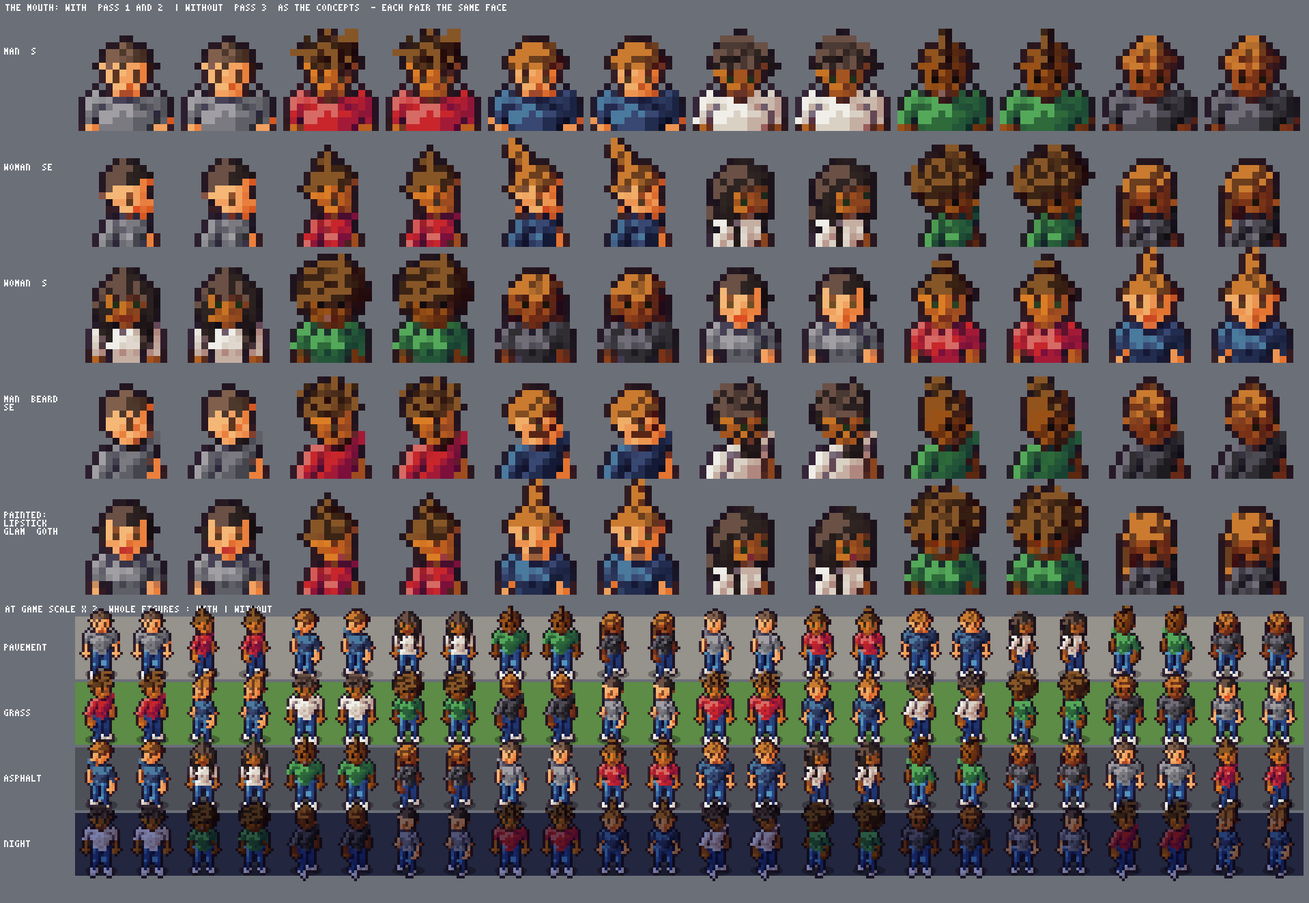
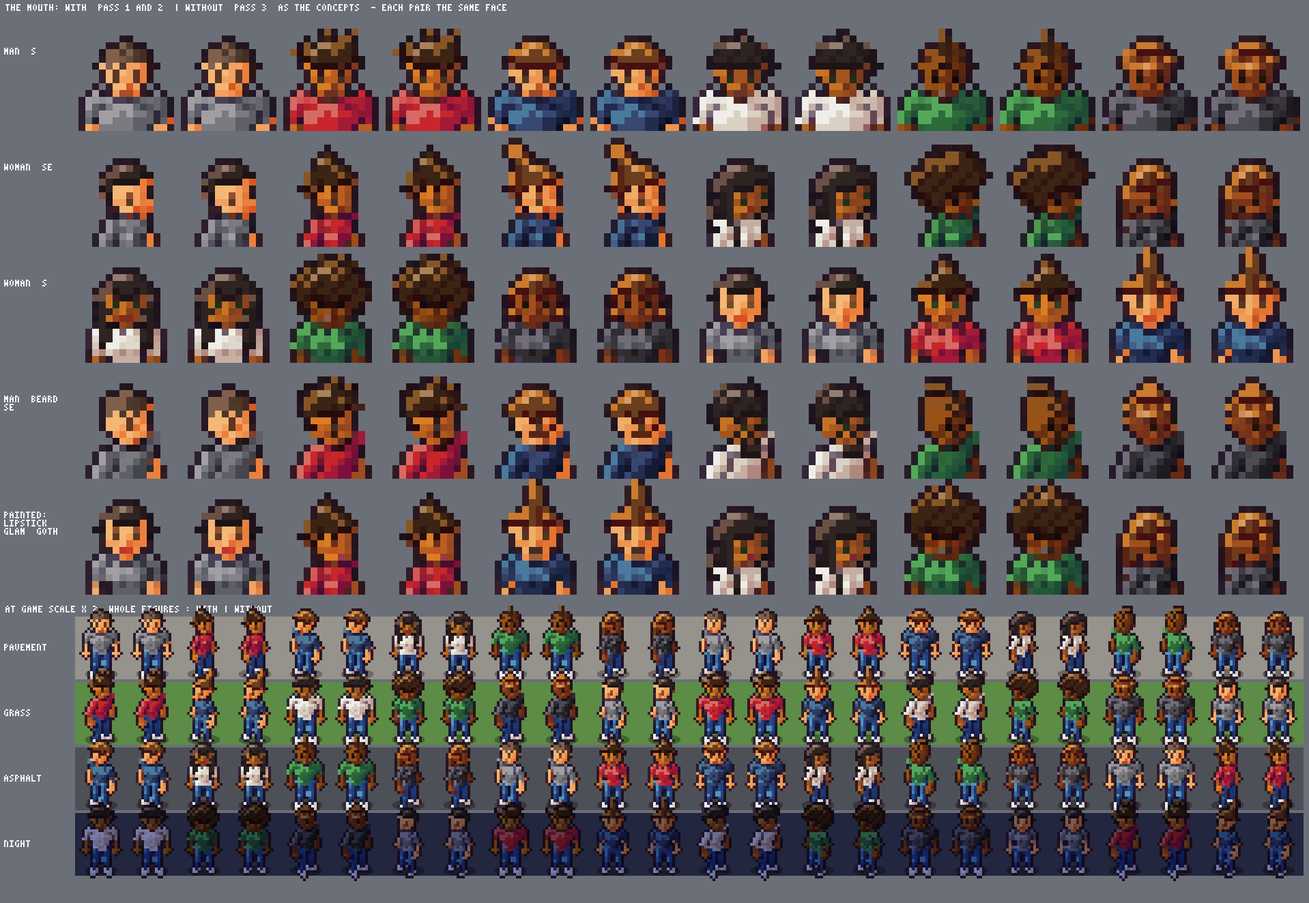
Characters pass 3: animation sheets 4, 6 and 7 studied with the pass on (nothing to fix; a parts check over every pose), the name tag rises with the taller head; pieces only the pass draws stay out of random looks and the props out of the creator while it is off; the creator's tile line fixed (a com

diff --git a/shared/lookcore.js b/shared/lookcore.js
@@ -389,9 +389,8 @@ add('set', 'Nothing', 'mf', 'lounge', 0, 'bathhouse', { k: 'none', bk: 'none', i
 // a random look; the creator shows it only to its owners): Season 0's Founding Citizen jacket (server/systems/cosmetics.js,
 // shared/rules.js COSMETICS.beta) - the varsity jacket's art in black and gold, no new sprite art
 add('jacket', 'Founding Citizen jacket', 'mf', 'preppy streetwear retro', 0, 'gift', { k: 'jacket', varsity: 1, gift: 1 }, 'black', 'gold');
-// underwear (the owner, 2026-11-19; docs/characters/NOTES.md): a slot, seen where there's no top or no bottoms. d.k the
-// top half's art kind (none: a woman's gets a plain bra), d.bk the bottom's. 'Nothing on': the mosaic, for everyone.
-// Never in random looks.
+// underwear (the owner, 2026-11-19): a slot, seen where there's no top or no bottoms. d.k the top half's art kind
+// (none: a woman's gets a plain bra), d.bk the bottom's. 'Nothing on': the mosaic. Never in random looks.
 add('under', 'Nothing on', 'mf', 'lounge', 0, 'clothing', { k: 'none', bk: 'none' }, 'white');
 add('under', 'Boxers', 'm', 'lounge casual', 10, 'clothing', { bk: 'trunks', band: 1 }, 'sky', 'white');
 add('under', 'Briefs', 'mf', 'lounge casual', 8, 'clothing', { bk: 'bikini', band: 1 }, 'white', 'light grey');
@@ -409,30 +408,28 @@ add('under', 'Strapless set', 'f', 'lounge nightclub', 50, 'boutique', { k: 'bik
 add('under', 'Lace bodysuit', 'f', 'lounge nightclub hifashion alt', 90, 'boutique', { k: 'swimsuit', bk: 'bikini', lace: 1 }, 'navy', 'silver');
 add('under', 'Teddy', 'f', 'lounge nightclub hifashion', 95, 'boutique', { k: 'swimsuit', bk: 'bikini', gloss: 1 }, 'wine', 'blush');
 add('under', 'Silk slip', 'f', 'lounge nightclub hifashion', 85, 'boutique', { k: 'dress', len: 1, bk: 'bikini', gloss: 1 }, 'cream', 'cream');
-// socks (pass 3): a slot. d.h where on the leg they start (0 hip .. 1 ankle); d.stripes, d.warm: the polish pass's
+// socks (pass 3): d.h where on the leg they start (0 hip .. 1 ankle); d.stripes, d.warm: the polish pass's
 add('socks', 'Ankle socks', 'mf', 'casual athletic', 5, 'clothing', { h: 0.9 }, 'white');
-add('socks', 'Crew socks', 'mf', 'casual athletic skater streetwear', 6, 'clothing', { h: 0.8 }, 'white');
+add('socks', 'Crew socks', 'mf', 'casual athletic skater', 6, 'clothing', { h: 0.8 }, 'white');
 add('socks', 'Striped crew socks', 'mf', 'skater streetwear retro', 8, 'clothing', { h: 0.8, stripes: 1 }, 'white', 'navy');
-add('socks', 'Tube socks', 'mf', 'skater retro athletic streetwear', 9, 'sports', { h: 0.7, stripes: 2 }, 'white', 'red');
+add('socks', 'Tube socks', 'mf', 'skater retro athletic', 9, 'sports', { h: 0.7, stripes: 2 }, 'white', 'red');
 add('socks', 'Knee socks', 'mf', 'preppy alt casual lounge', 12, 'clothing', { h: 0.56, stripes: 1 }, 'white', 'navy');
 add('socks', 'Thigh-high socks', 'f', 'alt nightclub lounge', 18, 'boutique', { h: 0.34, stripes: 1 }, 'black', 'white');
-add('socks', 'Tights', 'f', 'smart business alt winter', 15, 'clothing', { h: 0 }, 'black');
+add('socks', 'Tights', 'f', 'smart business winter', 15, 'clothing', { h: 0 }, 'black');
 add('socks', 'Leg warmers', 'mf', 'retro athletic lounge', 14, 'sports', { h: 0.54, warm: 1 }, 'hot pink', 'white');
-// drapes (pass 3): d.dr what the polish pass makes of the shape
+// drapes, props, small gear (pass 3): d.dr, d.prop the polish pass's; d.pp: only it draws the piece
 add('jacket', 'Hooded cloak', 'mf', 'alt disguise winter', 120, 'boutique', { k: 'coat', dr: 'cloak' }, 'black', 'gold');
 add('jacket', 'Cape coat', 'f', 'hifashion smart winter', 220, 'boutique', { k: 'coat', dr: 'cape' }, 'red');
 add('set', 'Sari', 'f', 'formal festival hifashion', 260, 'boutique', { k: 'gown', dr: 'sari' }, 'red', 'gold');
 add('set', 'Ghillie suit', 'mf', 'outdoors disguise', 150, 'costume', { k: 'hoodie', bk: 'cargo', p: 3, dr: 'ghillie' }, 'olive', 'khaki');
 add('set', 'Morning dress', 'm', 'formal', 450, 'boutique', { k: 'coat', bk: 'pants', dr: 'tails' }, 'charcoal', 'light grey');
-// props carried (pass 3): d.prop what the polish pass makes of the thing in the hand
-add('bag', 'Camera', 'mf', 'casual outdoors retro', 140, 'clothing', { carry: 'purse', prop: 'camera' }, 'charcoal', 'silver');
-add('bag', 'Bouquet', 'mf', 'formal festival', 25, 'clothing', { carry: 'coffee', prop: 'bouquet' }, 'pink', 'white');
-add('bag', 'Parasol', 'mf', 'alt retro hifashion', 60, 'boutique', { carry: 'cane', prop: 'parasol' }, 'black', 'burgundy');
-// small gear (pass 3). d.pp: only the polish pass draws it (the creator offers it while that is on)
+add('bag', 'Camera', 'mf', 'casual outdoors retro', 140, 'clothing', { carry: 'purse', prop: 'camera', pp: 1 }, 'charcoal', 'silver');
+add('bag', 'Bouquet', 'mf', 'formal festival', 25, 'clothing', { carry: 'coffee', prop: 'bouquet', pp: 1 }, 'pink', 'white');
+add('bag', 'Parasol', 'mf', 'alt retro hifashion', 60, 'boutique', { carry: 'cane', prop: 'parasol', pp: 1 }, 'black', 'burgundy');
 add('jewel', 'Knee pads', 'mf', 'skater work athletic', 22, 'sports', { knee: 1, pp: 1 }, 'charcoal');
 add('jewel', 'Elbow pads', 'mf', 'skater athletic', 20, 'sports', { elbow: 1, pp: 1 }, 'charcoal');
 add('jewel', 'Skate pads', 'mf', 'skater', 38, 'sports', { knee: 1, elbow: 1, pp: 1 }, 'charcoal');
-add('jewel', 'Wallet chain', 'mf', 'skater punk alt street', 18, 'clothing', { wchain: 1, pp: 1 }, 'silver');
+add('jewel', 'Wallet chain', 'mf', 'skater punk alt', 18, 'clothing', { wchain: 1, pp: 1 }, 'silver');
 add('jewel', 'Tool belt', 'mf', 'work', 40, 'workwear', { tbelt: 1, pp: 1 }, 'brown', 'yellow');
 add('jewel', 'Climbing harness', 'mf', 'outdoors athletic', 55, 'outdoor', { harness: 1, pp: 1 }, 'orange', 'silver');
 // the rest of the concepts' wardrobe (pass 2; docs/characters/CONCEPTS.md): each on a kind the renderer has (d.bands:
@@ -472,7 +469,7 @@ export const byName = (n) => PIECE_IDS[n] || 0;
 export const fits = (p, base) => !!p && p.b.includes(base);
 
 // ---- a look ----------------------------------------------------------------------------------------------------------
-// body options (pass 3): body.marks (1 body freckles, 2 vitiligo), body.limb (a prosthetic); the polish pass's
+// body.marks (1 freckles, 2 vitiligo), body.limb (a prosthetic): the polish pass's
 export const LIMBS = ['None', 'Left arm', 'Right arm', 'Left leg', 'Right leg'];
 export const clampI = (v, lo, hi, d) => { v = Number(v); return Number.isFinite(v) ? Math.max(lo, Math.min(hi, Math.round(v))) : d; };
 export function emptyLook(base = 'm') {
@@ -530,7 +527,6 @@ export function encodeLook(L) {
     const it = L.outfit[k];
     s += it ? AB[(it.id >> 6) & 63] + AB[it.id & 63] + AB[it.c & 63] + AB[it.t & 63] + AB[it.p & 63] : '00000';
   }
-  // (underwear and socks are left off the end while empty: most looks keep their 66 letters)
   if (b.marks || b.limb) return s + AB[b.marks | (b.limb << 2)];
   while (s.length > LOOK_CODE_LEN && s.endsWith('00000')) s = s.slice(0, -5);
   return s;
@@ -657,7 +653,7 @@ export function lookArt(L, opt = {}) {
   if (hat) A.hat = { kind: hat.d.k, color: HEX(O.hat.c), trim: HEX(O.hat.t), braid: hat.d.braid ? 1 : 0, back: hat.d.back ? 1 : 0, pom: hat.d.pom ? 1 : 0, slouch: hat.d.slouch ? 1 : 0, pattern: pat(O.hat), ...(hat.d.flat ? { flat: 1 } : null) };
   if (hat && hat.d.k === 'hood') A.hat.color = A.top.color;
   A.drape = (jk || set || A).d?.dr;
-  if (!hat && (A.drape === 'cloak' || A.drape === 'ghillie')) A.hat = { kind: 'hood', color: A.top.color };   // (the hood up)
+  if (!hat && (A.drape === 'cloak' || A.drape === 'ghillie')) A.hat = { kind: 'hood', color: A.top.color };
   const gl = P('glasses');
   if (gl) {
     const k = gl.d.k;

diff --git a/test/characters3.test.js b/test/characters3.test.js
@@ -189,11 +189,15 @@ test('phone poses: texting, the texting walk and a call draw with the pass on; a
   assert.ok(/ped\.filming = 3/.test(src('server/systems/personas.js')), 'the selfie persona says so');
 });
 
+test('nobody in the city wears a piece only the pass draws (gear, props)', () => {
+  for (let k = 1; k < 1500; k++) for (const o of Object.values(LK.randomLook(k * 104729).outfit)) if (o) assert.ok(!LK.PIECES[o.id].d.pp, LK.PIECES[o.id].name);
+});
+
 test('props carried (a camera, a bouquet, a parasol): bags on things the renderer puts in the hand, redrawn by the pass', async () => {
   const W = await import('../shared/wardrobe.js');
   for (const [n, carry] of [['Camera', 'purse'], ['Bouquet', 'coffee'], ['Parasol', 'cane']]) {
     const P = LK.PIECES[LK.byName(n)];
-    assert.ok(P && P.slot === 'bag' && P.d.carry === carry && P.d.prop && W.sellerOf(P.i), n);
+    assert.ok(P && P.slot === 'bag' && P.d.carry === carry && P.d.prop && P.d.pp && W.sellerOf(P.i), n);
     for (const base of ['m', 'f']) {
       const A = plain(base, (L) => { L.outfit.bag = LK.item(n); }), B = strip(A, 'prop');
       assert.equal(A.carry, carry); assert.equal(A.prop[0], P.d.prop);
@@ -202,5 +206,20 @@ test('props carried (a camera, a bouquet, a parasol): bags on things the rendere
       assert.equal(diff(baked(A, 1), baked(B, 1)), 0, 'off: the thing it is built on');
       withPass(() => { for (const pose of ['walk0', 'run', 'sit', 'down']) assert.ok(person(A, 1, pose, 1, { tight: true }).w > 6, pose); });
     }
+  }
+});
+
+test('over the taller head: the name tag rises with the head, as the bubbles and the marks do; every pose keeps its parts together with the pass on', async () => {
+  const { readFileSync } = await import('node:fs'), main = readFileSync(new URL('../client/main.js', import.meta.url), 'utf8');
+  assert.ok(/const SKULL_HEAD = window\.CLA_POLISH \? 50 : 46;/.test(main) && /const y = py - 26 \/ z - \(SKULL_HEAD - 46\);/.test(main), 'the name: up by the pass\'s two art pixels, and where it was with the pass off');
+  // the head's top really is two art pixels (4 world px) higher: a standing figure, the pass off and on
+  const A = plain('m'), off = baked(A, 0), on = withPass(() => baked(A, 0));
+  assert.ok(on.ay - off.ay >= 1 && on.ay - off.ay <= 3, `feet to the top of the sprite: ${off.ay} -> ${on.ay} art px`);
+  // animation sheets 4, 6 and 7's poses (and the rest): no frame breaks into more pieces with the pass on than off
+  const { POSES } = await import('../client/art2/people.js');
+  const pieces = (s) => { const seen = new Uint8Array(s.w * s.h); let n = 0; for (let i = 0; i < s.w * s.h; i++) { if (seen[i] || s.p0[i * 4 + 3] < 128) continue; let c = 0; const st = [i]; seen[i] = 1; while (st.length) { const j = st.pop(); c++; const x = j % s.w, y = (j / s.w) | 0; for (let dy = -1; dy <= 1; dy++) for (let dx = -1; dx <= 1; dx++) { const xx = x + dx, yy = y + dy; if (xx < 0 || yy < 0 || xx >= s.w || yy >= s.h) continue; const k = yy * s.w + xx; if (!seen[k] && s.p0[k * 4 + 3] >= 128) { seen[k] = 1; st.push(k); } } } if (c > 1) n++; } return n; };   // (a lone art pixel - the water's foam - isn't a part)
+  for (const p of ['tuck', 'saddle', 'hood', 'hunch', 'strut', 'skate', 'blade', 'dance', 'push', 'lean', 'pushup', 'surfair', 'cartkick', 'cartride', 'cartsit', 'statue', 'statuebow', 'cue', 'escortR', 'escortL', 'sitx', 'bars', 'bang', 'thump']) {
+    assert.ok(POSES[p], p);
+    for (let f = 0; f < POSES[p]; f++) for (const d of [0, 1, 2, 4, 6]) assert.ok(withPass(() => pieces(baked(A, d, p, f))) <= pieces(baked(A, d, p, f)), `${p} frame ${f} facing ${d}`);
   }
 });

diff --git a/client/creator.js b/client/creator.js
@@ -596,7 +596,7 @@ function renderPage() {
     const pieces = LK.PIECES.filter((p) => p && p.slot === outSlot && (devWear || !p.d.issued) && (!p.d.pp || passOn()) && (!p.d.gift || devWear || owned(p.i)) && (base === 'all' || LK.fits(p, base)) && (!outStyle || p.tags.includes(outStyle)) && (outView === 'all' || owned(p.i)));
     // each tile: you wearing it (a top or a set without the jacket over it; hats, glasses and masks as a close-up)
     const crop = outSlot === 'hat' || outSlot === 'glasses' ? 'head' : 'full';
-    const dress = (V, id) => { V.outfit[outSlot] = id; if (outSlot === 'set' && id) { V.outfit.top = null; V.outfit.bottoms = null; } if ((outSlot === 'top' || outSlot === 'set') && id) V.outfit.jacket = null; if (outSlot === 'socks' || outSlot === 'under') { V.outfit.set = V.outfit.bottoms = null; if (outSlot === 'under') V.outfit.top = V.outfit.jacket = null; }   // (a tile shows the piece: nothing worn over it) if (outSlot === 'hair' || crop === 'head') V.outfit.glasses = outSlot === 'glasses' ? id : V.outfit.glasses; };
+    const dress = (V, id) => { V.outfit[outSlot] = id; if (outSlot === 'set' && id) { V.outfit.top = null; V.outfit.bottoms = null; } if ((outSlot === 'top' || outSlot === 'set') && id) V.outfit.jacket = null; if (outSlot === 'socks' || outSlot === 'under') { V.outfit.set = V.outfit.bottoms = null; if (outSlot === 'under') V.outfit.top = V.outfit.jacket = null; } if (outSlot === 'hair' || crop === 'head') V.outfit.glasses = outSlot === 'glasses' ? id : V.outfit.glasses; };
     const none = outSlot !== 'shoes' ? `<button class="cc-card sm ${!slotItem ? 'on' : ''}" data-act="piece" data-v="0">${th(variant((V) => dress(V, null)), crop)}<span>${outSlot === 'under' ? 'Basic' : 'None'}</span></button>` : '';   // (underwear: no piece picked is the plain basics; 'Nothing on' is a piece)
     const tiles = pieces.map((p) => { const mine = slotItem && slotItem.id === p.i, lk = owned(p.i) ? '' : lockTag(p.i); return `<button class="cc-card sm ${mine ? 'on' : ''} ${lk ? 'locked' : ''}" data-act="piece" data-v="${p.i}">${th(variant((V) => dress(V, { id: p.i, c: mine ? slotItem.c : p.c, t: mine ? slotItem.t : p.t, p: mine ? slotItem.p : p.d.p || 0 })), crop)}<span>${esc(p.name)}</span>${lk}</button>`; }).join('');
     const strip = completeLooks().map((V, i) => `<button class="cc-card sm" data-act="complete" data-v="${i}">${th(V)}</button>`).join('');

diff --git a/client/art2/people.js b/client/art2/people.js
@@ -33,7 +33,7 @@
 //   hats: cap trucker police beanie bucket sunhat cowboy fedora hard helmet bandana headband hood
 //   carry: briefcase bag purse toolbag shopping coffee phone cane board, or any items.js kind (held)
 // Undressed bodies (a 'none' bottom, or a 'none' top on a woman) get a pixelated mosaic, the Sims' way, over the
-// private areas only, always and for everyone (the owner, 2026-11-19: no "censored" setting). Adults only.
+// private areas only, for everyone. Adults only.
 // Dither and texture patterns are anchored to the feet, so they hold still from frame to frame.
 // Also exported: POSES (frames per pose), SEATS (seat heights), PERSON_CAM, HAIR_STYLES, TOP_KINDS, SKIN_TONES,
 // cloth(colour) -> 5-step ramp. (Named looks for scenes, ARCHETYPES and randomPerson: client/art2/peoplepresets.js; the face
@@ -318,7 +318,7 @@ const ICLS = {
 };
 // ---- lights to carry and felling trees (#358, #359): the axe swung like a sledge, the lantern carried by its bail ----
 Object.assign(ICLS, { axe: 'big', lantern: 'bill', pickaxe: 'big', phoneSelfie: 'phoneup' });   // (pickaxe: a miner's - server activities.js)
-ITEMS.phoneSelfie = ITEMS.phoneUp;   // (a selfie: the phone held up as for a photo - the polish pass's own hold, PL.selfie)
+ITEMS.phoneSelfie = ITEMS.phoneUp;   // (a selfie: PL.selfie's hold)
 // ---- end ----
 // The umbrella's hold, in body space (x right, y forward, z up): the right hand in front of the right shoulder at a
 // set height whatever the build, the shaft UMBRELLA_LEN long straight up, so its top - where the renderer puts the
@@ -1023,7 +1023,7 @@ function wardrobe(A, D, TF, seed) {
     if (A.founder) { if (Math.abs(along - 0.5) < 0.07) Q.k -= 0.22; return skin; }
     if (legSkin || (bk === 'shorts' && along > 0.33) || (bk === 'trunks' && along > 0.18)) {
       if (bk === 'shorts' && along < 0.37) Q.k -= 0.2;
-      if (sox && along > A.socks.h) return sox;   // (the socks slot: on a bare leg, down from where they start)
+      if (sox && along > A.socks.h) return sox;   // (the socks slot)
       if ((tat & 2) && along < 0.4 && side > 0.3 && hash(Math.floor(along * 16), Math.floor((Q.l2 + 2) * 2), seed + 1) > 0.6) return ink;
       return skin;
     }

diff --git a/shared/look.js b/shared/look.js
@@ -12,7 +12,7 @@ export * from './lookcore.js';
 // ---- random looks -------------------------------------------------------------------------------------------------------
 const rint = (r, n) => Math.floor(r() * n) % n;
 const rpick = (r, a) => a[rint(r, a.length)];
-const pieceList = (slot, base, style) => PIECES.filter((p) => p && p.slot === slot && fits(p, base) && !p.d.issued && !p.d.gift && (!style || p.tags.includes(style)));   // (never an issued uniform, nor a season's gift)
+const pieceList = (slot, base, style) => PIECES.filter((p) => p && p.slot === slot && fits(p, base) && !p.d.issued && !p.d.gift && !p.d.pp && (!style || p.tags.includes(style)));   // (never an issued uniform, a season's gift, or a piece only the polish pass draws)
 const EVERYDAY_GLASSES = ['sun', 'round', 'frames', 'browline', 'rimless', 'roundsun'];   // (the glasses anyone might have on; the rest by style)
 const NEUTRAL = ['white', 'black', 'charcoal', 'grey', 'navy', 'denim', 'cream', 'khaki', 'brown', 'tan', 'olive'].map(col);
 // A whole random look from a seed. base: 'm' | 'f' | null (either); style: a STYLES id to dress in (null: any).

diff --git a/client/main.js b/client/main.js
@@ -5312,7 +5312,7 @@ function drawWorldLabels(peds, vehs, now, z, only = null) {   // (only: the came
       if (bd >= 2) { g.fillStyle = bd === 3 ? '#ff9a3a' : '#ffd36b'; g.font = `700 ${11 / z}px "CLA Pixel", "Barlow Condensed", sans-serif`; g.fillText(bd === 3 ? 'BRUTE' : 'TOUGH', p.rx, y - 6 / z); g.font = `700 ${fs}px "CLA Pixel", "Barlow Condensed", sans-serif`; }
     }
     if ((!only || only.tags) && p.d.pl && p.d.n && p.id !== S.myPedId) {
-      const y = py - 26 / z;
+      const y = py - 26 / z - (SKULL_HEAD - 46);   // (the polish pass's taller people: the name keeps its place against the head - pass 3)
       const np = p.d.np, nm = np && np.k ? `[${np.k}] ${p.d.n}` : p.d.n;   // (their name color, title plate and crew tag: server cosmetics.js)
       const gu = p.d.gu;   // (a guest: the name a soft grey, the role and title colors a dimmer shade, a faint shadow and no edge; members bright, with a dark edge all round - told apart by lightness and the edge, no word: the owner, 11-16)
       if (gu) { g.fillStyle = 'rgba(0,0,0,.45)'; g.fillText(nm, p.rx + 1 / z, y + 1 / z); }

diff --git a/docs/characters/NOTES.md b/docs/characters/NOTES.md
@@ -214,3 +214,128 @@ Always (the wardrobe):
 5. **Drop the mouth?** The concepts' small figures have eyes and a brow and no mouth. Pass 1's mouth is two faint pixels.
 6. **Approve by sheet:** dark clothing and uniforms (`vs-SM12`, `vs-SF12`, `vs-C3`, `grounds`) could go live apart from
    the proportions if you prefer to stage it.
+
+---
+
+# Pass 3 - notes (2026-11-19): the owner's decisions, the rest of the gap list
+
+The task is `docs/tasks/CHARACTERS3.md`. All eleven items are built, each its own commit; the sheets are in
+`pass3/`. Nothing was pushed. Not seen running in a browser (as passes 1 and 2); not stamped (stamp on merge).
+
+**Live on merge, with or without the pass:** no "censored nudity" setting; the patrol's light-blue shirt; the Socks
+slot and its eight pieces (drawn plain by today's renderer: one colour down from where they start); the five draped
+pieces as the plain shapes they are built on; the selfie persona's descriptor (`ph` 3 - drawn as the filming hold, as
+today, until the pass is on); the look's code can be longer (below). **Behind the switch:** everything else here. With
+the pass off every look that existed before draws pixel for pixel as it did (`test/peoplepolish.test.js`).
+
+## The sheets (`docs/characters/pass3/`, `node tools/charsheet.mjs <mode>`)
+
+| File | Mode | What it shows |
+| --- | --- | --- |
+| `police.png` | `p3police` | The police by rank: the patrol shirt navy (before) over light blue; the pass off; at night |
+| `faces-mouth.png` | `p3mouth` | The same faces with pass 1's mouth and without it, side by side, heads at 5x and whole figures on four grounds |
+| `hair.png` | `p3hair` | All 42 hairstyles, S SE E N: pass 2 over pass 3 |
+| `socks.png` | `p3socks` | The eight sock pieces on both bases: five facings, walking, running, sitting; the pass off; without |
+| `gear.png` | `p3gear` | Knee pads, elbow pads, skate pads, wallet chain, tool belt, climbing harness, the same way |
+| `body.png` | `p3body` | Body freckles, vitiligo (light and dark skin), a prosthetic arm and leg on each side; dressed; without |
+| `drapes.png` | `p3drapes` | Hooded cloak, cape coat, sari, ghillie suit, morning dress; the pass off (the shape each is built on) |
+| `phone.png` | `p3phone` | Texting, the texting walk, a call, filming and the selfie in eight facings; pass 2's selfie; the pass off |
+| `props.png` | `p3props` | Camera, bouquet, parasol; the pass off; without |
+| `anim-4`, `anim-6`, `anim-7` | `anim` | The three animation sheets pass 2 did not study, the pass on |
+
+## The owner's decisions (11-19)
+
+1. **No "censored nudity" setting.** The Settings switch, `CLA_CENSOR`, the renderer's swimwear path (`censored` on the
+   look's art, in `peds.js`, `host.js`, `lookcore.js`, `people.js`), the Guide's sentence and the test are out. Nothing
+   on is always under the mosaic. A browser that had the setting saved keeps a stray `censor` key in `cla.settings`;
+   nothing reads it.
+2. **Patrol police in the light-blue shirt:** officers (ranks 0 and 1), rookies (still told apart by the ball cap) and
+   K9 handlers. A sergeant keeps navy under the gold chevrons - on light blue the chevrons would not read - and the
+   dress uniform is unchanged. With the pass on the patch on a light shirt is navy, the badge and buckle gold. On the
+   light shirt the badge is two art pixels of gold against light blue: it reads less than it did on navy.
+3. **The mouth is off**, behind one line: `POLISH.mouthOn` in `client/art2/peoplepolish.js` (`true` draws pass 1's
+   mouth). Painted lips - lipstick, glam, goth, a clown's - are drawn either way. The six lip shapes therefore show only
+   with the mouth on or with painted lips; the creator still offers them.
+
+## The gap list's rows
+
+- **Hair (gap 7).** Every style is now a mass in clean tones on the art grid, placed by where an art pixel sits in the
+  mass rather than by its own lighting: a lit top with a highlight in it, the body of the hair, a darker far side, a
+  dark underside (the fringe's lower row, the tips). Curls keep a broken tone, braids and locs their strands, long hair
+  a strand's shadow now and then. Shaved sides, a parting, ties and cuffs and the lines between locks are left alone.
+  It is one rule for all 42 styles (`hairLit`), not 36 hand-drawn shapes: the silhouettes are the styles' own, not one
+  pixel of outline moves (tested). The outline is the figure's own dark outline, as before.
+- **Socks (gap 14).** An eleventh slot, "Socks", with a tab in the creator: Ankle, Crew (in the starter wardrobe),
+  Striped crew, Tube, Knee, Thigh-high, Tights, Leg warmers. They show on a bare leg and never through trousers; with
+  the pass on the stripes are the trim colour and leg warmers go over leggings and trousers. White crew socks over
+  white sneakers barely show - that is the colours, not a fault. The city's people don't wear the slot.
+- **Small gear (gap 15).** Six accessories (the Jewelry slot): Knee pads, Elbow pads, Skate pads, Wallet chain, Tool
+  belt, Climbing harness. Only the pass draws them (`d.pp`), so the creator offers them only while it is on and random
+  looks never pick them. They are 2-6 art pixels each: the harness and the tool belt read; knee pads read on light
+  trousers and bare legs; **elbow pads and the wallet chain are at the edge of what shows** - a dark pixel or two.
+- **Body options (gap 16).** Body freckles, vitiligo and a prosthetic arm or leg (left or right) on the creator's Body
+  tab, offered while the pass is on; kept in the look (`body.marks`, `body.limb`). Vitiligo is pale patches fixed to
+  each body part; a prosthetic is dark metal with a lit joint in place of the skin - the same thickness as the limb it
+  replaces (a thinner limb would need its own geometry), and hidden by a sleeve, trousers or gloves. Freckles are
+  faint. Changing them counts as a change of body (the mirror at home).
+- **Drapes (gap 17).** Five wearable pieces, each on a shape the renderer already has, so they are worn with the pass
+  off too (a hooded long coat, a long coat, a gown, a hooded camo suit, a long coat and trousers): Hooded cloak (the
+  hood up unless you wear a hat), Cape coat, Sari, Ghillie suit, Morning dress. The pass adds what makes each its own.
+  **How well they read:** the ghillie suit, the cloak and the morning dress read; the sari is a red gown with a gold
+  border and a faint pallu; the cape coat's hem line is weak - it still looks like a coat. None has a silhouette of its
+  own (no cape flare, no train).
+- **Phone poses (gap 13).** Texting, the texting walk and a call already existed (the texter and caller personas, the
+  player's phone-out hold); checked with the pass on - the phone is in the hands and at the ear. What was missing was
+  the selfie: the selfie persona used the two-handed filming hold. Now the server marks it (`ph` 3) and the pass draws
+  one arm out and up with the chin turned to it. No new emote for players (emotes round 3 is deferred, DECISIONS).
+- **Props carried (gap 20).** Camera, Bouquet and Parasol as bags, drawn by the pass over the block, cup and cane the
+  renderer puts in the hand (`d.pp`: offered while the pass is on, never in random looks). The parasol is carried
+  closed - an open one needs a canopy the figure renderer doesn't have. The bouquet is held low at the hip, a few pink
+  and green pixels; the camera hangs from the hand with the bag's strap across the chest.
+- **Animation sheets 4, 6, 7** (tuck, saddle, hood, the walk styles, dance, push, lean, push-ups; the surf air, carts,
+  the statue, the cue, escorts, sitting on a bench, bars; bang, thump): looked at frame by frame - limbs attached, held
+  things in the hand, nothing to fix. A check over all 114 poses (the 68 here and the 46 emotes, dances and lasting
+  poses), every frame, found no frame that breaks into more parts with the pass on, bar one stray foam pixel beside the
+  shoulder in two swim frames, left as it is.
+- **The name tag.** By the code (`client/main.js` `drawWorldLabels`) a name's baseline is 26 screen px above the feet at
+  any zoom - it is not tied to the top of the head. The pass's people are two art pixels (4 world px) taller, so the
+  name now rises by the same 4 world px with the pass on and keeps its place against the head; off, it is where it was.
+  **For the owner to look at in the game:** since the distance is in screen px and a figure is 46 world px tall, on a
+  large monitor (zoom about 1.25) the name should sit lower against the figure than on a phone. I could not see it
+  running, so I left that as it is.
+
+## The look's code
+
+66 letters as before for a look with none of the new things; 71 with underwear; 76 with socks (the underwear's five
+letters are zeros if there is none); 77 with a body option (one more letter). Old codes read as before. A page still
+on an older build cannot read a longer code and draws that player's stand-in until it reloads (as with pass 2's 71).
+
+## Budgets and tests
+
+- The renderer's code: **413.97 KB of 414**, measured by hand with LF endings (`tools/perf.mjs` can't run on this
+  checkout). It is full. The catalogue's 27 new lines and the hooks cost about 1.2 KB; removing the swimwear path and
+  shortening the catalogue's comments paid for it. Page 531.8 / 540, bake worker 1019.0 / 1020. The pass's own
+  drawing is in `peoplepolish.js`, loaded only when on, in no budget. **Making the pass the default will need a
+  budget decision** (its file is about 10 KB gzipped, or it stays a second file).
+- `test/characters3.test.js` (11 tests). Two older tests changed because they were passing on the hair's speckle, which
+  differs with every look's seed and is gone with clean hair: with the pass on, `peoplelook.test.js` now counts a pair
+  of glasses' own pixels (6 or more, was 10) and a small step between two face options; the lip shapes are checked in
+  the new file with the mouth on. `peoplepolish.test.js` measures the head with the mouth drawn, as pass 1 did.
+- The whole suite: see the DEVLOG entry for the count against the commit before this pass.
+
+## What's left
+
+- Nothing of the task's eleven items. Weak spots, in order: the cape coat, the sari, elbow pads, the wallet chain, the
+  bouquet (above).
+- From the gap list, still not built: an open parasol, a towel over the shoulder, a thinner prosthetic, a real cape or
+  train silhouette - each needs geometry in the renderer, which has no room in its budget.
+- The dark-cloth lift and the hair's tones are tuned on sheets, not in the game's lighting.
+
+## The owner's choices
+
+1. **Approve by sheet.** `hair.png` and `faces-mouth.png` change every person; the rest are pieces you choose to wear.
+2. **A sergeant in navy, patrol in light blue** - say if sergeants should be light blue too (one word in
+   `shared/look.js` `policeLook`).
+3. **Pieces only the pass draws** (gear, props, body options) are hidden in the creator while it is off but are in
+   the stores' stock lists. If the pass stays off for long, say if they should be held back from the stores too.
+4. **The name tag's height on large screens** (above).

diff --git a/docs/characters/CONCEPTS.md b/docs/characters/CONCEPTS.md
@@ -1,7 +1,7 @@
 # The character concepts: a catalogue (2026-11-19, pass 2)
 
 Every image in `docs/characters/concepts/` (94), looked at one by one, then the gap list: what the concepts show that
-the game's people lacked, ranked by how much a player would notice. No sheet has labels except the three creator
+the game's people lacked, ranked by how much a player would notice (its last column brought up to pass 3). No sheet has labels except the three creator
 mock-ups (CC1). The game's figure is about 25 art pixels tall with a head 8 wide; "at game scale" means that.
 
 What every sheet shares: a 3/4 view from above, light from the upper left, a blue-violet shadow to the lower right;
@@ -131,25 +131,25 @@ tee, trim, metal pixels or contrasting shoes; identity from the hat or hair outl
 Ranked by how much a player would notice. *Fits* = fits at sprite size; *too small* = cannot be shown on a 25-px
 figure. "Built" refers to pass 2 (behind the switch unless it is a wardrobe piece); the rest is in `NOTES.md`.
 
-| # | The concepts show | The game had | At sprite size | Pass 2 |
+| # | The concepts show | The game had | At sprite size | Pass (2, then 3) |
 | --- | --- | --- | --- | --- |
 | 1 | Dark clothing as warm charcoal or navy with lighter folds, never flat black (SF12, SM12, C2, NP1-B) | Black, charcoal and navy closing up into one mass | Fits | Built: dark cloth re-lit |
 | 2 | An inner outline where the arm hangs over the body (every sheet) | A line only where there was a clear step in depth | Fits | Built |
 | 3 | A dark top parted from dark bottoms and dark shoes: a belt or waist line, a lighter sole (SM3, SF22, CP4) | One mass from collar to floor | Fits | Built: a waist line, lighter soles |
-| 4 | Police that read at once: gold badge and buckle on navy, a black belt line, the cap's badge, a light-blue patrol shirt (C3, CC5, SF21, SM21) | A navy figure with a cap | Fits | Built: brighter badge, buckle, shoulder patch; the light-blue shirt is the owner's choice |
+| 4 | Police that read at once: gold badge and buckle on navy, a black belt line, the cap's badge, a light-blue patrol shirt (C3, CC5, SF21, SM21) | A navy figure with a cap | Fits | Built: brighter badge, buckle, shoulder patch. **Pass 3:** the patrol's shirt light blue (the owner, 11-19; a sergeant's stays navy) |
 | 5 | The other jobs: paramedic (green, reflective bands), firefighter (red helmet, tan coat, yellow bands), security guard, detective, mechanic, courier, chef, doctor, ranger, lifeguard, builder (C3, SF21, SM21) | Chef, scrubs, hi-vis, coveralls, ranger, lifeguard, courier pack were in; no paramedic or firefighter uniform a player could wear, no reflective bands | Fits | Built: paramedic uniform, turnout gear, fire helmet, security shirt, reflective bands |
-| 6 | Underwear for both bases, front and back; lingerie; a hoodie over briefs (SF23-A..G, SM23) | One "Underwear" set; plain white basics under missing clothes | Fits (two colour blocks, a 1-px waistband) | Built: its own slot, 17 pieces, "Nothing on" with the mosaic |
-| 7 | Hair as an outline with a lit top; shapes the game lacked: bald on top with side hair, flat top, pompadour, afro puffs, a low ponytail, an emo fringe (CB3, CC2, C4) | 36 styles; none of those six | Fits (height above the skull, the tail) | Built: see NOTES |
+| 6 | Underwear for both bases, front and back; lingerie; a hoodie over briefs (SF23-A..G, SM23) | One "Underwear" set; plain white basics under missing clothes | Fits (two colour blocks, a 1-px waistband) | Built: its own slot, 17 pieces, "Nothing on" with the mosaic. **Pass 3:** no "censored" setting - always the mosaic |
+| 7 | Hair as an outline with a lit top; shapes the game lacked: bald on top with side hair, flat top, pompadour, afro puffs, a low ponytail, an emo fringe (CB3, CC2, C4) | 36 styles; none of those six | Fits (height above the skull, the tail) | Pass 2: the six shapes. **Pass 3:** every style (42) a mass in clean tones with a lit top, in every direction |
 | 8 | Outfits and accessories the wardrobe lacked (SF/SM, CC3-4, CP): a scarf, a neckerchief, a lanyard, a bolo tie, evening gloves, biker gloves, sweatbands, glow bracelets, headphones, a towel wrap, a boonie hat, a camo cap, animal masks, a kilt, a sherwani, a onesie, a sequin dress, a rash guard, a camisole, a sweater vest, a camo jacket, a cane, chaps (and a surfboard to carry) | Not in the catalogue | Fits (each is a colour block, a band or a silhouette change) | Built: added as wearable pieces, all but the surfboard (the list in NOTES) |
 | 9 | The body bobbing over a still shadow in the walk; arms swinging clear (C5, NP1-A) | A bob from the planted feet, small; arms inside the outline | Fits (one row) | Checked on the animation sheet: see NOTES |
-| 10 | Faces: two dark eyes under a brow, no mouth; sunglasses as a bar; beards as a jaw mask in six classes (CB2, CB4, CC2) | Pass 1's face (eyes, brow, nose shadow, a mouth) | Fits | Kept pass 1's; the mouth is fainter than the eyes on purpose. Owner's choice: drop the mouth as the concepts do |
+| 10 | Faces: two dark eyes under a brow, no mouth; sunglasses as a bar; beards as a jaw mask in six classes (CB2, CB4, CC2) | Pass 1's face (eyes, brow, nose shadow, a mouth) | Fits | Kept pass 1's. **Pass 3:** the mouth off behind one constant (the owner, 11-19); painted lips stay |
 | 11 | Gang colours carried on hat, stripe and shoes; a biker's back patch (C3, CC5, NP4) | Club patches and gang colours exist (clubs.js, the syndicate's stripe) | Fits | Already in; checked in the line-up |
 | 12 | Posture as personality: an elder's stoop, a swagger, a sway (NP1-A, NP2-B, CB1) | Walk styles exist for personas (gt: hunch...) | Fits | Already in (server personas); not changed |
-| 13 | Phone poses: text, call, selfie, a texting walk (CC6) | A phone prop and a look-at-phone pose | Fits (a 2-px glow) | Not built: left for an animation pass |
-| 14 | Tube socks, crew socks with stripes, knee socks, leg warmers (SF4, SF7, SF23) | Socks only under slides | Fits (a 1-px band) | Not built: needs a socks slot; in NOTES |
-| 15 | Knee pads, elbow pads, a wallet chain, a tool belt, a harness (SF7, SM7, SM21, SF16) | None | Fits, barely (2-4 px) | Not built |
-| 16 | Prosthetic limbs, vitiligo, freckles on the body (CB1) | Face freckles only | Fits (a dark thin limb) | Not built: a body option, not a wardrobe piece |
-| 17 | A sari, a ghillie suit, morning dress with tails, a hooded cloak, a cape-coat, a ball gown's veil and bouquet (SF17, SM17, CC4, SF12, SF1) | Evening gown, wedding dress and veil | The drape is the silhouette: needs its own shapes | Didn't fit this pass |
+| 13 | Phone poses: text, call, selfie, a texting walk (CC6) | A phone prop and a look-at-phone pose | Fits (a 2-px glow) | **Pass 3:** texting, the texting walk and a call were already in (checked with the pass on); the selfie built - an arm out and up |
+| 14 | Tube socks, crew socks with stripes, knee socks, leg warmers (SF4, SF7, SF23) | Socks only under slides | Fits (a 1-px band) | **Pass 3:** built - a Socks slot, eight pieces |
+| 15 | Knee pads, elbow pads, a wallet chain, a tool belt, a harness (SF7, SM7, SM21, SF16) | None | Fits, barely (2-4 px) | **Pass 3:** built as accessories the pass draws; elbow pads and the wallet chain at the edge of what shows |
+| 16 | Prosthetic limbs, vitiligo, freckles on the body (CB1) | Face freckles only | Fits (a dark thin limb) | **Pass 3:** built as body options (the limb dark, not thinner) |
+| 17 | A sari, a ghillie suit, morning dress with tails, a hooded cloak, a cape-coat, a ball gown's veil and bouquet (SF17, SM17, CC4, SF12, SF1) | Evening gown, wedding dress and veil | The drape is the silhouette: needs its own shapes | **Pass 3:** cloak, cape coat, sari, ghillie suit, morning dress built on shapes the renderer has (no silhouette of their own; the cape and the sari read weakly). Not built: a veil's bouquet as part of a gown |
 | 18 | Rings, nail polish, press-on nails, cufflinks, a tie bar, a pocket square, safety-pin earrings, a gold tooth, wrinkles, eye shapes (CP3, CB2, SM2) | - | **Too small to show** | - |
 | 19 | Lettering, band logos, patch text, embroidery, lace patterns, fishnet (SF11, SF12, SM15) | A print blob, a number, a patch | **Too small to show** beyond a blob or a dither | Lace is the trim colour scattered through the piece |
-| 20 | Props that are their own things: a shopping trolley, dogs on leads, a bicycle with a basket, a parasol, a bouquet, a camera (NP1-B, C2) | Carts, dogs and bikes exist as world things; no camera or parasol to carry | Fits | Not wardrobe: out of this pass |
+| 20 | Props that are their own things: a shopping trolley, dogs on leads, a bicycle with a basket, a parasol, a bouquet, a camera (NP1-B, C2) | Carts, dogs and bikes exist as world things; no camera or parasol to carry | Fits | **Pass 3:** a camera, a bouquet, a parasol (closed) to carry. Trolleys, dogs and bikes are world things, as before |

diff --git a/docs/DECISIONS.md b/docs/DECISIONS.md
@@ -176,10 +176,11 @@ The owner's standing decisions, one line each: the decision, its date, its sourc
 - Characters: keep the system (it generally looks good); make every look option read clearly - premium hats and glasses; same bar for NPCs. (11-13; queue)
 - The player characters keep the game's current sprite art; never swap in the high-detail close-up renderer (the menu avatar uses the game sprite, scaled up). Character polish later is staged and switchable, approved sheet by sheet. (11-14; chat: "Lets not revert the player character art back to what is showing in the avatar")
 - Character polish: proportions A (about 3.1 heads: a neck, shoulders, longer legs, hands, full faces), as built on the `characters` branch; still behind its switch until the owner approves it in the game. Next passes take the people toward all the character concepts (docs/characters/concepts). (11-19; chat)
-- Underwear for both bases (lingerie styles included; opaque) with a "none" choice: underwear off shows the built-in mosaic, and a character may go with nothing on anywhere, the street included; "censored nudity" shows swimwear instead; NPCs never undressed. (11-19; chat) - built on the characters branch: an Underwear slot, the basics in the starter wardrobe; "Censored nudity" is a new Settings switch, off by default - OPEN: its default, and whether the lingerie is sold or free (docs/characters/NOTES.md).
+- Underwear for both bases (lingerie styles included; opaque) with a "none" choice: underwear off shows the built-in mosaic, and a character may go with nothing on anywhere, the street included; "censored nudity" shows swimwear instead; NPCs never undressed. (11-19; chat) - built on the characters branch: an Underwear slot, the basics in the starter wardrobe; "Censored nudity" is a new Settings switch, off by default - OPEN: its default, and whether the lingerie is sold or free (docs/characters/NOTES.md). - SETTLED the same day (the next lines): no setting; the basics free, the lingerie sold.
 - No "censored nudity" setting: nothing on is always shown under the built-in mosaic (you see nothing), for everyone. (11-19; chat) - SUPERSEDES the planned "Censored nudity" toggle.
 - The renderer's code budget raised 411 -> 414 KB for the character pass's wardrobe (every page reads the catalogue). (11-19; chat)
-- Underwear: the basics free (starter wardrobe), lingerie sold. Patrol police in a light-blue shirt (the concepts' clearest police read). (11-19; chat)
+- Underwear: the basics free (starter wardrobe), lingerie sold. Patrol police in a light-blue shirt (the concepts' clearest police read). (11-19; chat) - built in pass 3: officers, rookies and K9 handlers; a sergeant's stays navy under the chevrons, the dress uniform unchanged - OPEN: sergeants too?
+- The people's small faces have no mouth, as the concepts draw them (pass 1's mouth off behind one constant, `POLISH.mouthOn`; painted lips stay); the owner looks at docs/characters/pass3/faces-mouth.png. (11-19; docs/tasks/CHARACTERS3.md)
 - Character polish pass on Fable: staged, review sheets per pass (faces, then hands/arms, then clothing), the owner approves each before live. (11-14; beta-checklist 11-14*, queue)
 - Title card avatar: a portrait (head to waist), centered, every face in the same spot; non-looping idles (blink, glance...). (11-14; DEVLOG 11-14) - SUPERSEDES the whole-figure avatar (11-14).
 - Logo: the owner's neon design, rebuilt in-engine - no black outlines; D3 = his letters cleaned + a fresh crisp skyline on an even grid; fonts only if he asks. (11-14 15:04; queue) - OPEN: owner picks the variant.
@@ -353,7 +354,7 @@ The owner's standing decisions, one line each: the decision, its date, its sourc
 - Delete capture frames and temporary builds once looked at (fixed disk). (11-13; agent-rules)
 - Reports short (under 200 words); 2-3 small screenshots at most. (11-12; agent-rules)
 - Raising a performance budget is a decision: say why in the DEVLOG. Page budget now 540 KB (11-07, "a modest raise is fine"). (CLAUDE.md; DEVLOG 10-21, 10-26, 11-07)
-- The renderer's code budget 411 -> 414 KB for character pass 2 (the catalogue's underwear, concept pieces and hairstyles). (11-19; DEVLOG 11-19, docs/characters/NOTES.md) - OPEN: raised by Claude on the characters branch, the owner to confirm.
+- The renderer's code budget 411 -> 414 KB for character pass 2 (the catalogue's underwear, concept pieces and hairstyles). (11-19; DEVLOG 11-19, docs/characters/NOTES.md) - OPEN: raised by Claude on the characters branch, the owner to confirm. - CONFIRMED by the owner 11-19 (Art direction, above); pass 3 stays inside it (413.97 KB).
 - Each art change costs ~5 h of server rebake: batch art changes; avoid re-keying world/art unless the task needs it. (11-07; queue, agent-rules)
 - Don't slow the server's start (health window). (agent-rules)
 - Stamp before every commit; a DEVLOG entry per feature (American English); README controls table current. (CLAUDE.md)
